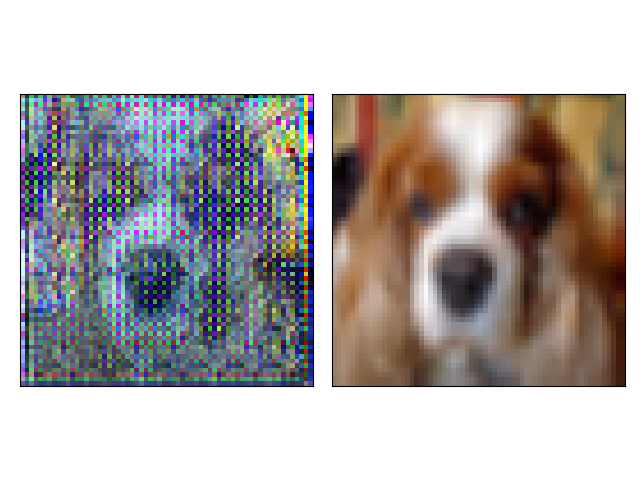
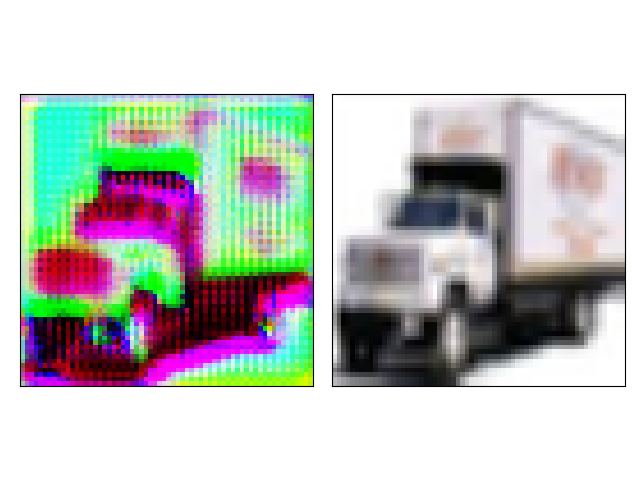
fully convolutional net, testing it currently

diff --git a/src/networks/inference_network.py b/src/networks/inference_network.py
@@ -5,81 +5,87 @@ class InferenceNetwork(tf.keras.Model):
     def __init__(self, n_classes=3):
         super(InferenceNetwork, self).__init__()
         self.n_classes = n_classes
-        # eg.: 256 x 256 x 3
+        # eg.: 128 x 128 x 3
         self.down_conv_1 = tf.keras.layers.Conv2D(filters=64,
                                                   kernel_size=(3, 3),
-                                                  padding='same',
+                                                  padding='valid',
                                                   activation='relu')
-        self.downsample_1 = tf.keras.layers.Conv2D(filters=64,
+        # eg.: 126 x 126 x 32
+        self.downsample_1 = tf.keras.layers.Conv2D(filters=128,
                                                    kernel_size=(2, 2),
                                                    strides=(2, 2),
-                                                   padding='same',
+                                                   padding='valid',
                                                    activation='relu')
-        # eg.: 128 x 128 x 64
-        self.down_conv_2 = tf.keras.layers.Conv2D(filters=256,
-                                                  kernel_size=(3, 3),
-                                                  padding='same',
+        # eg.: 63 x 63 x 64
+        self.down_conv_2 = tf.keras.layers.Conv2D(filters=128,
+                                                  kernel_size=(2, 2),
+                                                  padding='valid',
                                                   activation='relu')
+        # eg.: 62 x 62 x 64
         self.downsample_2 = tf.keras.layers.Conv2D(filters=256,
-                                                   kernel_size=(3, 3),
+                                                   kernel_size=(2, 2),
                                                    strides=(2, 2),
-                                                   padding='same',
+                                                   padding='valid',
                                                    activation='relu')
-        # eg.: 64 x 64 x 256
-        self.down_conv_3 = tf.keras.layers.Conv2D(filters=512,
+        # eg.: 31 x 31 x 128
+        self.down_conv_3 = tf.keras.layers.Conv2D(filters=256,
                                                   kernel_size=(3, 3),
-                                                  padding='same',
+                                                  padding='valid',
                                                   activation='relu')
+        # eg.: 29 x 29 x 128
         self.downsample_3 = tf.keras.layers.Conv2D(filters=512,
                                                    kernel_size=(3, 3),
                                                    strides=(2, 2),
-                                                   padding='same',
+                                                   padding='valid',
                                                    activation='relu')
-        # eg.: 32 x 32 x 512
+        # eg.: 14 x 14 x 256
         self.bottom_conv1 = tf.keras.layers.Conv2D(filters=512,
                                                    kernel_size=(2, 2),
-                                                   padding='same',
+                                                   padding='valid',
                                                    activation='relu')
-        # eg.: 32 x 32 x 512
+        # eg.: 13 x 13 x 256
         self.bottom_conv2 = tf.keras.layers.Conv2D(filters=512,
-                                                   kernel_size=(1, 1),
-                                                   padding='same',
+                                                   kernel_size=(2, 2),
+                                                   padding='valid',
                                                    activation='relu')
-        # eg.: 32 x 32 x 512
-        self.upsample_3 = tf.keras.layers.Conv2DTranspose(filters=256,
-                                                          kernel_size=(2, 2),
+        # eg.: 12 x 12 x 256
+        self.upsample_3 = tf.keras.layers.Conv2DTranspose(filters=512,
+                                                          kernel_size=(7, 7),
                                                           strides=(2, 2),
                                                           padding='valid',
                                                           activation='relu')
-        # eg. : 64 x 64 x 512
-        self.up_conv_3_1 = tf.keras.layers.Conv2D(filters=128,
-                                                  kernel_size=(3, 3),
-                                                  padding='same',
+        # eg. : 29 x 29 x 128
+        self.up_conv_3_1 = tf.keras.layers.Conv2D(filters=256,
+                                                  kernel_size=(2, 2),
+                                                  padding='valid',
                                                   activation='relu')
-        self.upsample_2 = tf.keras.layers.Conv2DTranspose(filters=256,
-                                                          kernel_size=(2, 2),
+        # eg. : 28 x 28 x 128
+        self.upsample_2 = tf.keras.layers.Conv2DTranspose(filters=128,
+                                                          kernel_size=(8, 8),
                                                           strides=(2, 2),
                                                           padding='valid',
                                                           activation='relu')
-        # eg. : 128 x 128 x 256
+        # eg. : 62 x 62 x 64
         self.up_conv_2_1 = tf.keras.layers.Conv2D(filters=128,
-                                                  kernel_size=(3, 3),
-                                                  padding='same',
+                                                  kernel_size=(2, 2),
+                                                  padding='valid',
                                                   activation='relu')
-        self.upsample_1 = tf.keras.layers.Conv2DTranspose(filters=64,
-                                                          kernel_size=(2, 2),
+        # eg. : 61 x 61 x 64
+        self.upsample_1 = tf.keras.layers.Conv2DTranspose(filters=128,
+                                                          kernel_size=(6, 6),
                                                           strides=(2, 2),
                                                           padding='valid',
                                                           activation='relu')
-        # eg. : 256 x 256 x 64
-        self.up_conv_1_1 = tf.keras.layers.Conv2D(filters=64,
-                                                  kernel_size=(3, 3),
-                                                  padding='same',
-                                                  activation='relu')
+        # eg.:  126 x 126 x 32
+        self.up_conv_1_1 = tf.keras.layers.Conv2DTranspose(filters=64,
+                                                           kernel_size=(4, 4),
+                                                           padding='valid',
+                                                           activation='relu')
+        # eg.: 129 x 129 x 32
         self.reco = tf.keras.layers.Conv2D(
             filters=self.n_classes,
             kernel_size=(2, 2),
-            padding='same',
+            padding='valid',
             activation='sigmoid')  # scale to [0-1]
 
     def call(self, x):
@@ -98,8 +104,10 @@ class InferenceNetwork(tf.keras.Model):
         x = self.bottom_conv1(x)
         x = tf.contrib.layers.instance_norm(x)
         x = self.bottom_conv2(x)
+        print('After bottom conv 2 : ', x.get_shape().as_list())
         x = tf.contrib.layers.instance_norm(x)
         x = self.upsample_3(x)
+        print('After upsampl 3 : ', x.get_shape().as_list())
         x = tf.keras.layers.Concatenate()([x, x3])
         x = self.up_conv_3_1(x)
         x = tf.contrib.layers.instance_norm(x)
@@ -110,5 +118,8 @@ class InferenceNetwork(tf.keras.Model):
         x = self.upsample_1(x)
         x = tf.keras.layers.Concatenate()([x, x1])
         x = self.up_conv_1_1(x)
+        print('After up conv 1_1 : ', x.get_shape().as_list())
         x = tf.contrib.layers.instance_norm(x)
-        return self.reco(x)
+        x = self.reco(x)
+        print('After reco : ', x.get_shape().as_list())
+        return x

diff --git a/test_inference_network.py b/test_inference_network.py
@@ -23,11 +23,11 @@ test[test < .5] = 0
 test[test > .5] = 1
 
 # Resize
-train = tf.reshape(train, shape=(60_000, 28, 28, 1))
-test = tf.reshape(test, shape=(10_000, 28, 28, 1))
+train = tf.reshape(train, shape=(60000, 28, 28, 1))
+test = tf.reshape(test, shape=(10000, 28, 28, 1))
 
-train = tf.image.resize_images(train, size=(32, 32))
-test = tf.image.resize_images(test, size=(32, 32))
+train = tf.image.resize_images(train, size=(64, 64))
+test = tf.image.resize_images(test, size=(64, 64))
 
 
 def cross_entropy_loss(x, y):
@@ -41,18 +41,23 @@ def cross_entropy_loss(x, y):
 inference_net = InferenceNetwork(n_classes=1)
 inference_net.compile(tf.train.AdamOptimizer(1e-3), loss=cross_entropy_loss)
 
-inference_net.fit(x=train,
-                  y=train,
-                  batch_size=256,
+inference_net.fit(x=train[:3200],
+                  y=train[:3200],
+                  batch_size=32,
                   epochs=10,
                   verbose=1,
                   callbacks=[tensorboard_callback])
 
-test_predictions = inference_net.predict(test, batch_size=256, verbose=1)
+test_predictions = inference_net.predict(test[:16], batch_size=4, verbose=1)
 
 import matplotlib.pyplot as plt
 
-plt.imshow(test_predictions[0].reshape(32, 32), vmin=0, vmax=1, cmap='gray')
-plt.xticks([])
-plt.yticks([])
+fig, axes = plt.subplots(4, 4, sharex=True, sharey=True, figsize=(9, 9))
+for ind, ax in enumerate(axes.flatten()):
+    ax.imshow(test_predictions[ind].reshape(64, 64),
+              vmin=0,
+              vmax=1,
+              cmap='gray')
+    ax.set_xticks([])
+    ax.set_yticks([])
 plt.savefig('mnist_test_image.png', dpi=50)

diff --git a/train.py b/train.py
@@ -6,16 +6,12 @@ import tensorflow as tf
 tf.enable_eager_execution()
 from tensorflow.keras.datasets.cifar10 import load_data
 
-import tensorflow_datasets as tfds
-
-dataset_builder = tfds.image.celebahq.CelebAHq(256)
-
 import matplotlib.pyplot as plt
 
 from src import ModelTrainer
 
-BUFFER_SIZE = 10_000
-BATCH_SIZE = 25
+BUFFER_SIZE = 50000
+BATCH_SIZE = 10
 INPUT_SHAPE = 64
 
 style_image = plt.imread('starry_night.jpg')
@@ -23,7 +19,8 @@ style_image = tf.Variable(style_image / 255., name='style_image')
 style_image = [style_image] * BATCH_SIZE
 style_image = tf.reshape(style_image,
                          shape=(BATCH_SIZE, *tf.shape(style_image[0]).numpy()))
-style_image = tf.image.resize_images(style_image, size=(INPUT_SHAPE, INPUT_SHAPE))
+style_image = tf.image.resize_images(style_image,
+                                     size=(INPUT_SHAPE, INPUT_SHAPE))
 
 trainer = ModelTrainer(style_image,
                        input_shape=(INPUT_SHAPE, INPUT_SHAPE, 3),
@@ -40,6 +37,6 @@ train = tf.image.resize_images(train, size=(INPUT_SHAPE, INPUT_SHAPE))
 test = tf.image.resize_images(test, size=(INPUT_SHAPE, INPUT_SHAPE))
 
 train = tf.data.Dataset.from_tensor_slices(
-    train[:10_000] / 255.).shuffle(BUFFER_SIZE).batch(BATCH_SIZE)
+    train / 255.).shuffle(BUFFER_SIZE).batch(BATCH_SIZE)
 
-trainer.train(train, lr=5e-3)
+trainer.train(train, lr=5e-3, epochs=5)

diff --git a/src/train_utils/train.py b/src/train_utils/train.py
@@ -37,9 +37,11 @@ class ModelTrainer:
             gram_style = self._gram_matrix(self.style_loss[loss_layer])
             gram_reco = self._gram_matrix(loss[loss_layer])
             gram_diff = gram_reco - gram_style
-            style_final_loss += 10. * tf.reduce_sum(gram_diff**2)  # frob-norm
+            style_final_loss += tf.reduce_sum(gram_diff**2)  # frob-norm
+        total_var_loss = 1e-5 * tf.reduce_sum(tf.image.total_variation(reco))
         print('Style : ', style_final_loss)
         print('Feature : ', feature_final_loss)
+        print('TV loss : ', total_var_loss)
         #return feature_final_loss + tf.reduce_sum(
         #    tf.square(reco - content_image))
         return style_final_loss + feature_final_loss
@@ -65,7 +67,7 @@ class ModelTrainer:
             zip(gradients,
                 self.transfer_model.inference_net.trainable_variables))
 
-    def train(self, images, lr=1e-2, epochs=10):
+    def train(self, images, lr=1e-2, epochs=1):
         opt = tf.train.AdamOptimizer(lr)
         for epoch in range(epochs):
             for ind, image_batch in enumerate(images):
@@ -84,3 +86,4 @@ class ModelTrainer:
                     plt.tight_layout()
                     plt.savefig("reco.png")
                     plt.close()
+        self.transfer_model.save_weights("model.h5")
